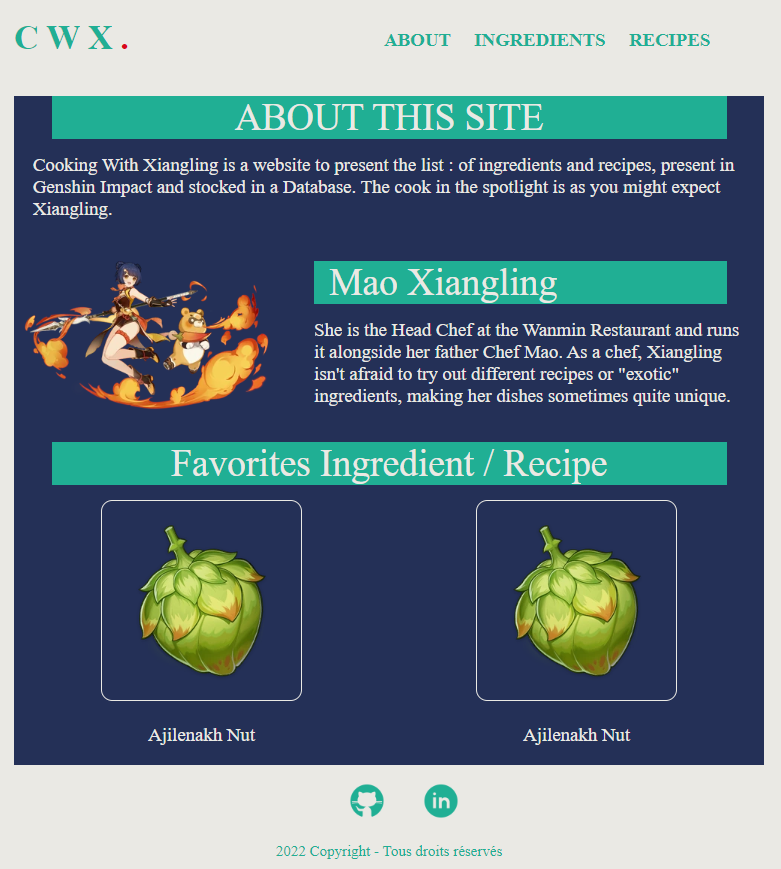
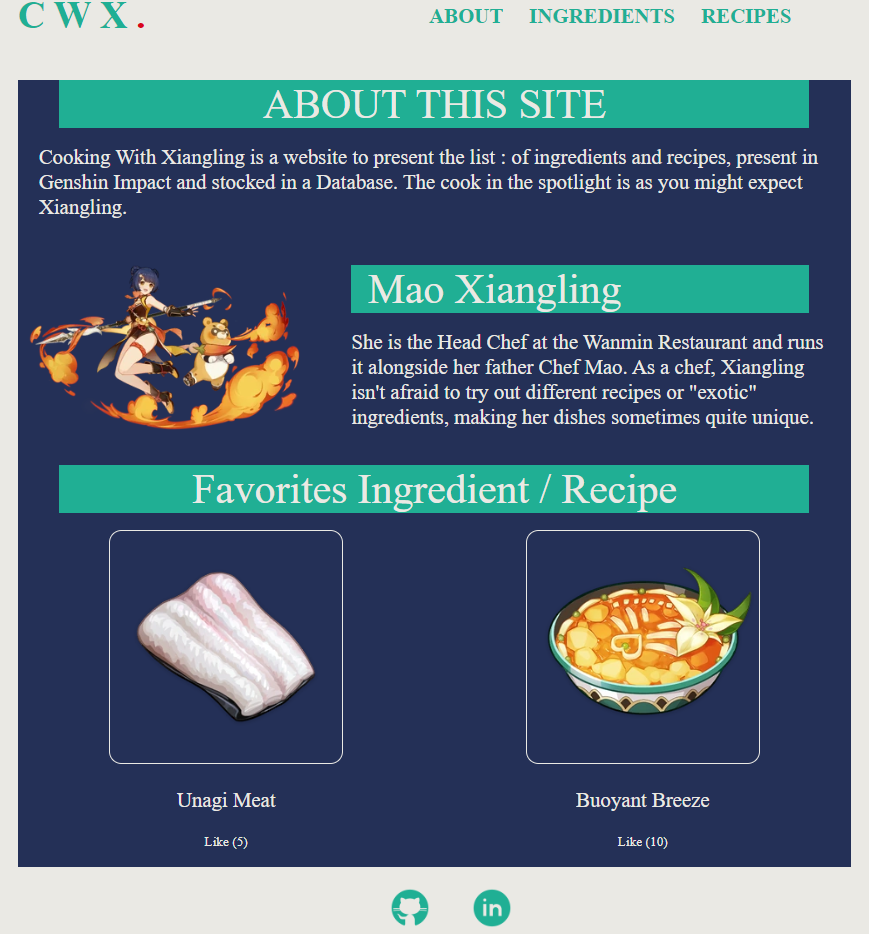
like_requete

diff --git a/index.php b/index.php
@@ -41,16 +41,31 @@
     </div>
 
     <div class="favorite_all">
+        <?php 
+        
+        //--------------------------------- TRAITEMENTS PHP ---------------------------------//
+        $resultat_1 = executeRequete("SELECT id_recipe, name, categorie, description, ingrdients, image_link, price, rate FROM recipes_data WHERE rate = (SELECT MAX(rate) FROM recipes_data)");
+        $resultat_2 = executeRequete("SELECT id, name, type, description, image_links, rate FROM ingredients_data WHERE rate = (SELECT MAX(rate) FROM ingredients_data)");
 
-        <div class="favorite_1">
-            <img class="img_col" src="images/ingredients/fruits/Item_Ajilenakh_Nut_1_11zon.png" alt="">
-            <p class="description_fav">Ajilenakh Nut</p>
-        </div>
+        $fav_ingredient = $resultat_2->fetch_assoc();
+        $fav_recipe = $resultat_1->fetch_assoc();
 
-        <div class="favorite_2">
-            <img class="img_col" src="images/ingredients/fruits/Item_Ajilenakh_Nut_1_11zon.png" alt="">
-            <p class="description_fav">Ajilenakh Nut</p>
-        </div>
+        $contenu .= '<div class="favorite_1" margin-bottom:20px;>';
+            $contenu .= "<img src=\"$fav_ingredient[image_links]\" =\"268\" height=\"268\">";
+            $contenu .= '<p class="description_fav">' . $fav_ingredient['name'] .'</p>';
+            $contenu .= '<div class="" style="color: #eae9e4;">Like ('. $fav_ingredient['rate'] . ')</div>';
+        $contenu .= '</div>';
+
+        $contenu .= '<div class="favorite_2" style="margin-bottom:20px;">';
+            $contenu .= "<img src=\"$fav_recipe[image_link]\" =\"268\" height=\"268\">";
+            $contenu .= '<p class="description_fav">' . $fav_recipe['name'] .'</p>';
+            $contenu .= '<div class="" style="color: #eae9e4;">Like ('. $fav_recipe['rate'] . ')</div>';
+        $contenu .= '</div>';
+
+        //--------------------------------- AFFICHAGE HTML ---------------------------------//
+        echo $contenu;
+        
+        ?>
 
     </div>
 
